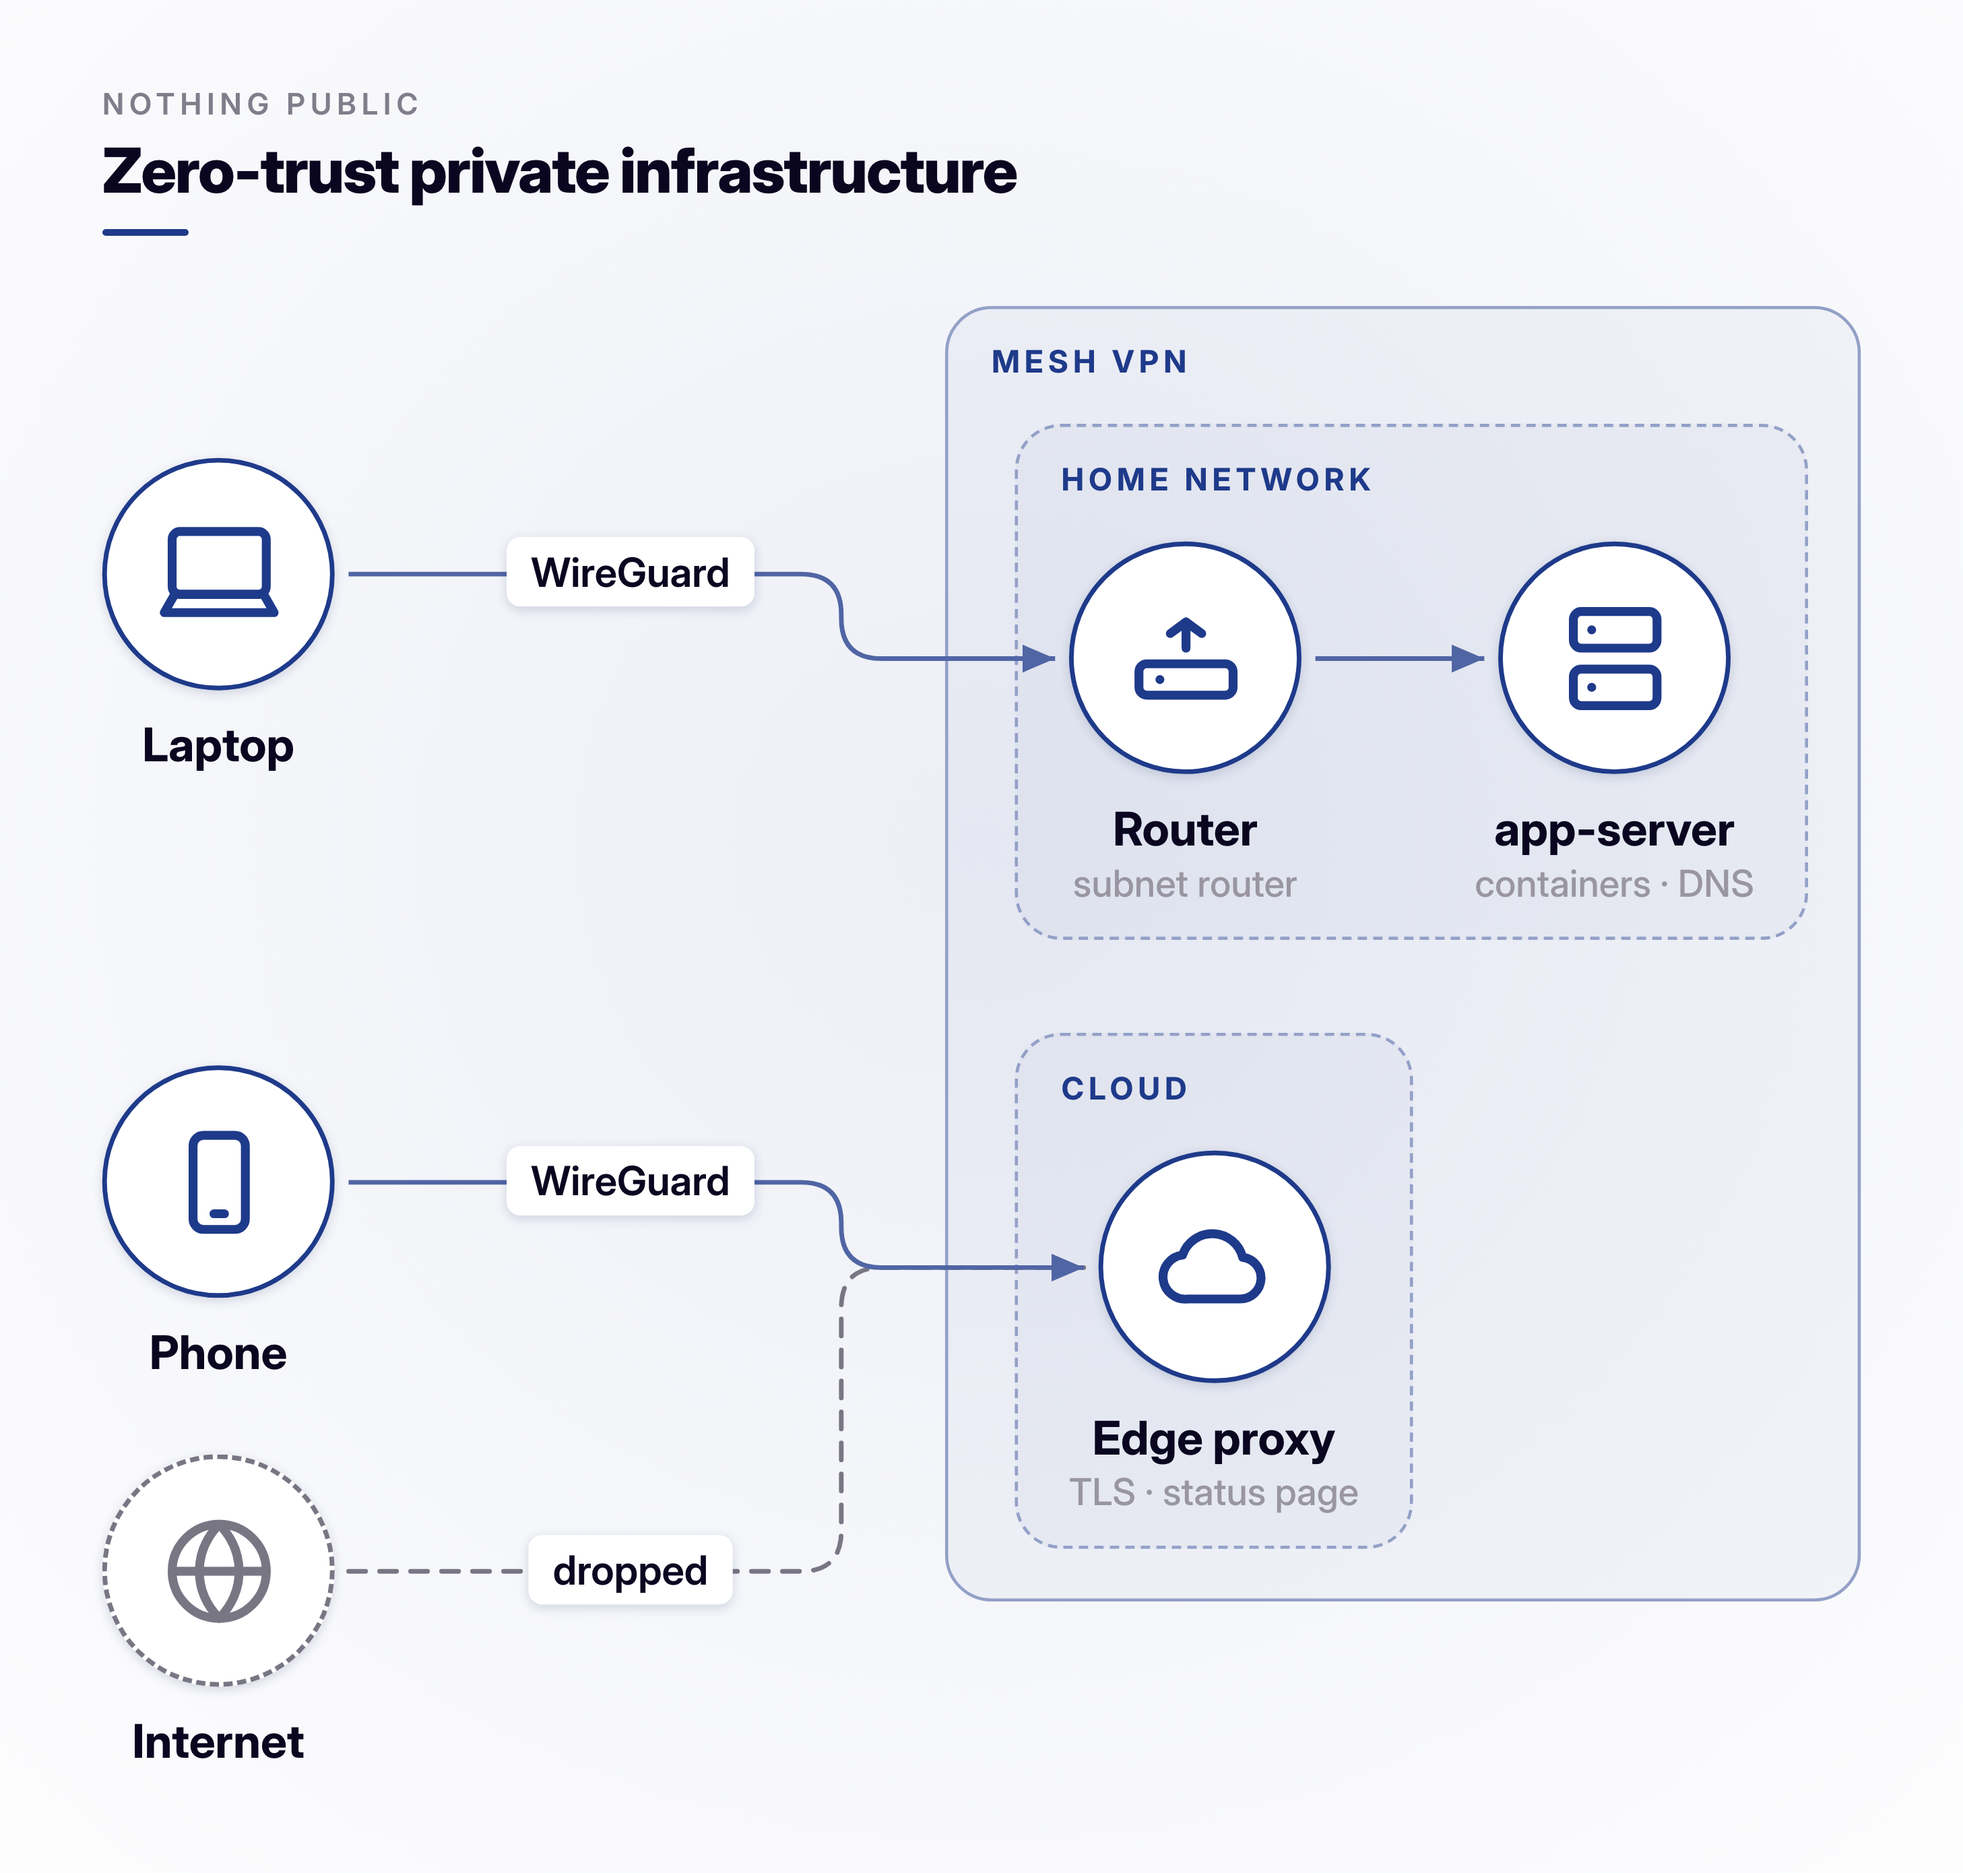
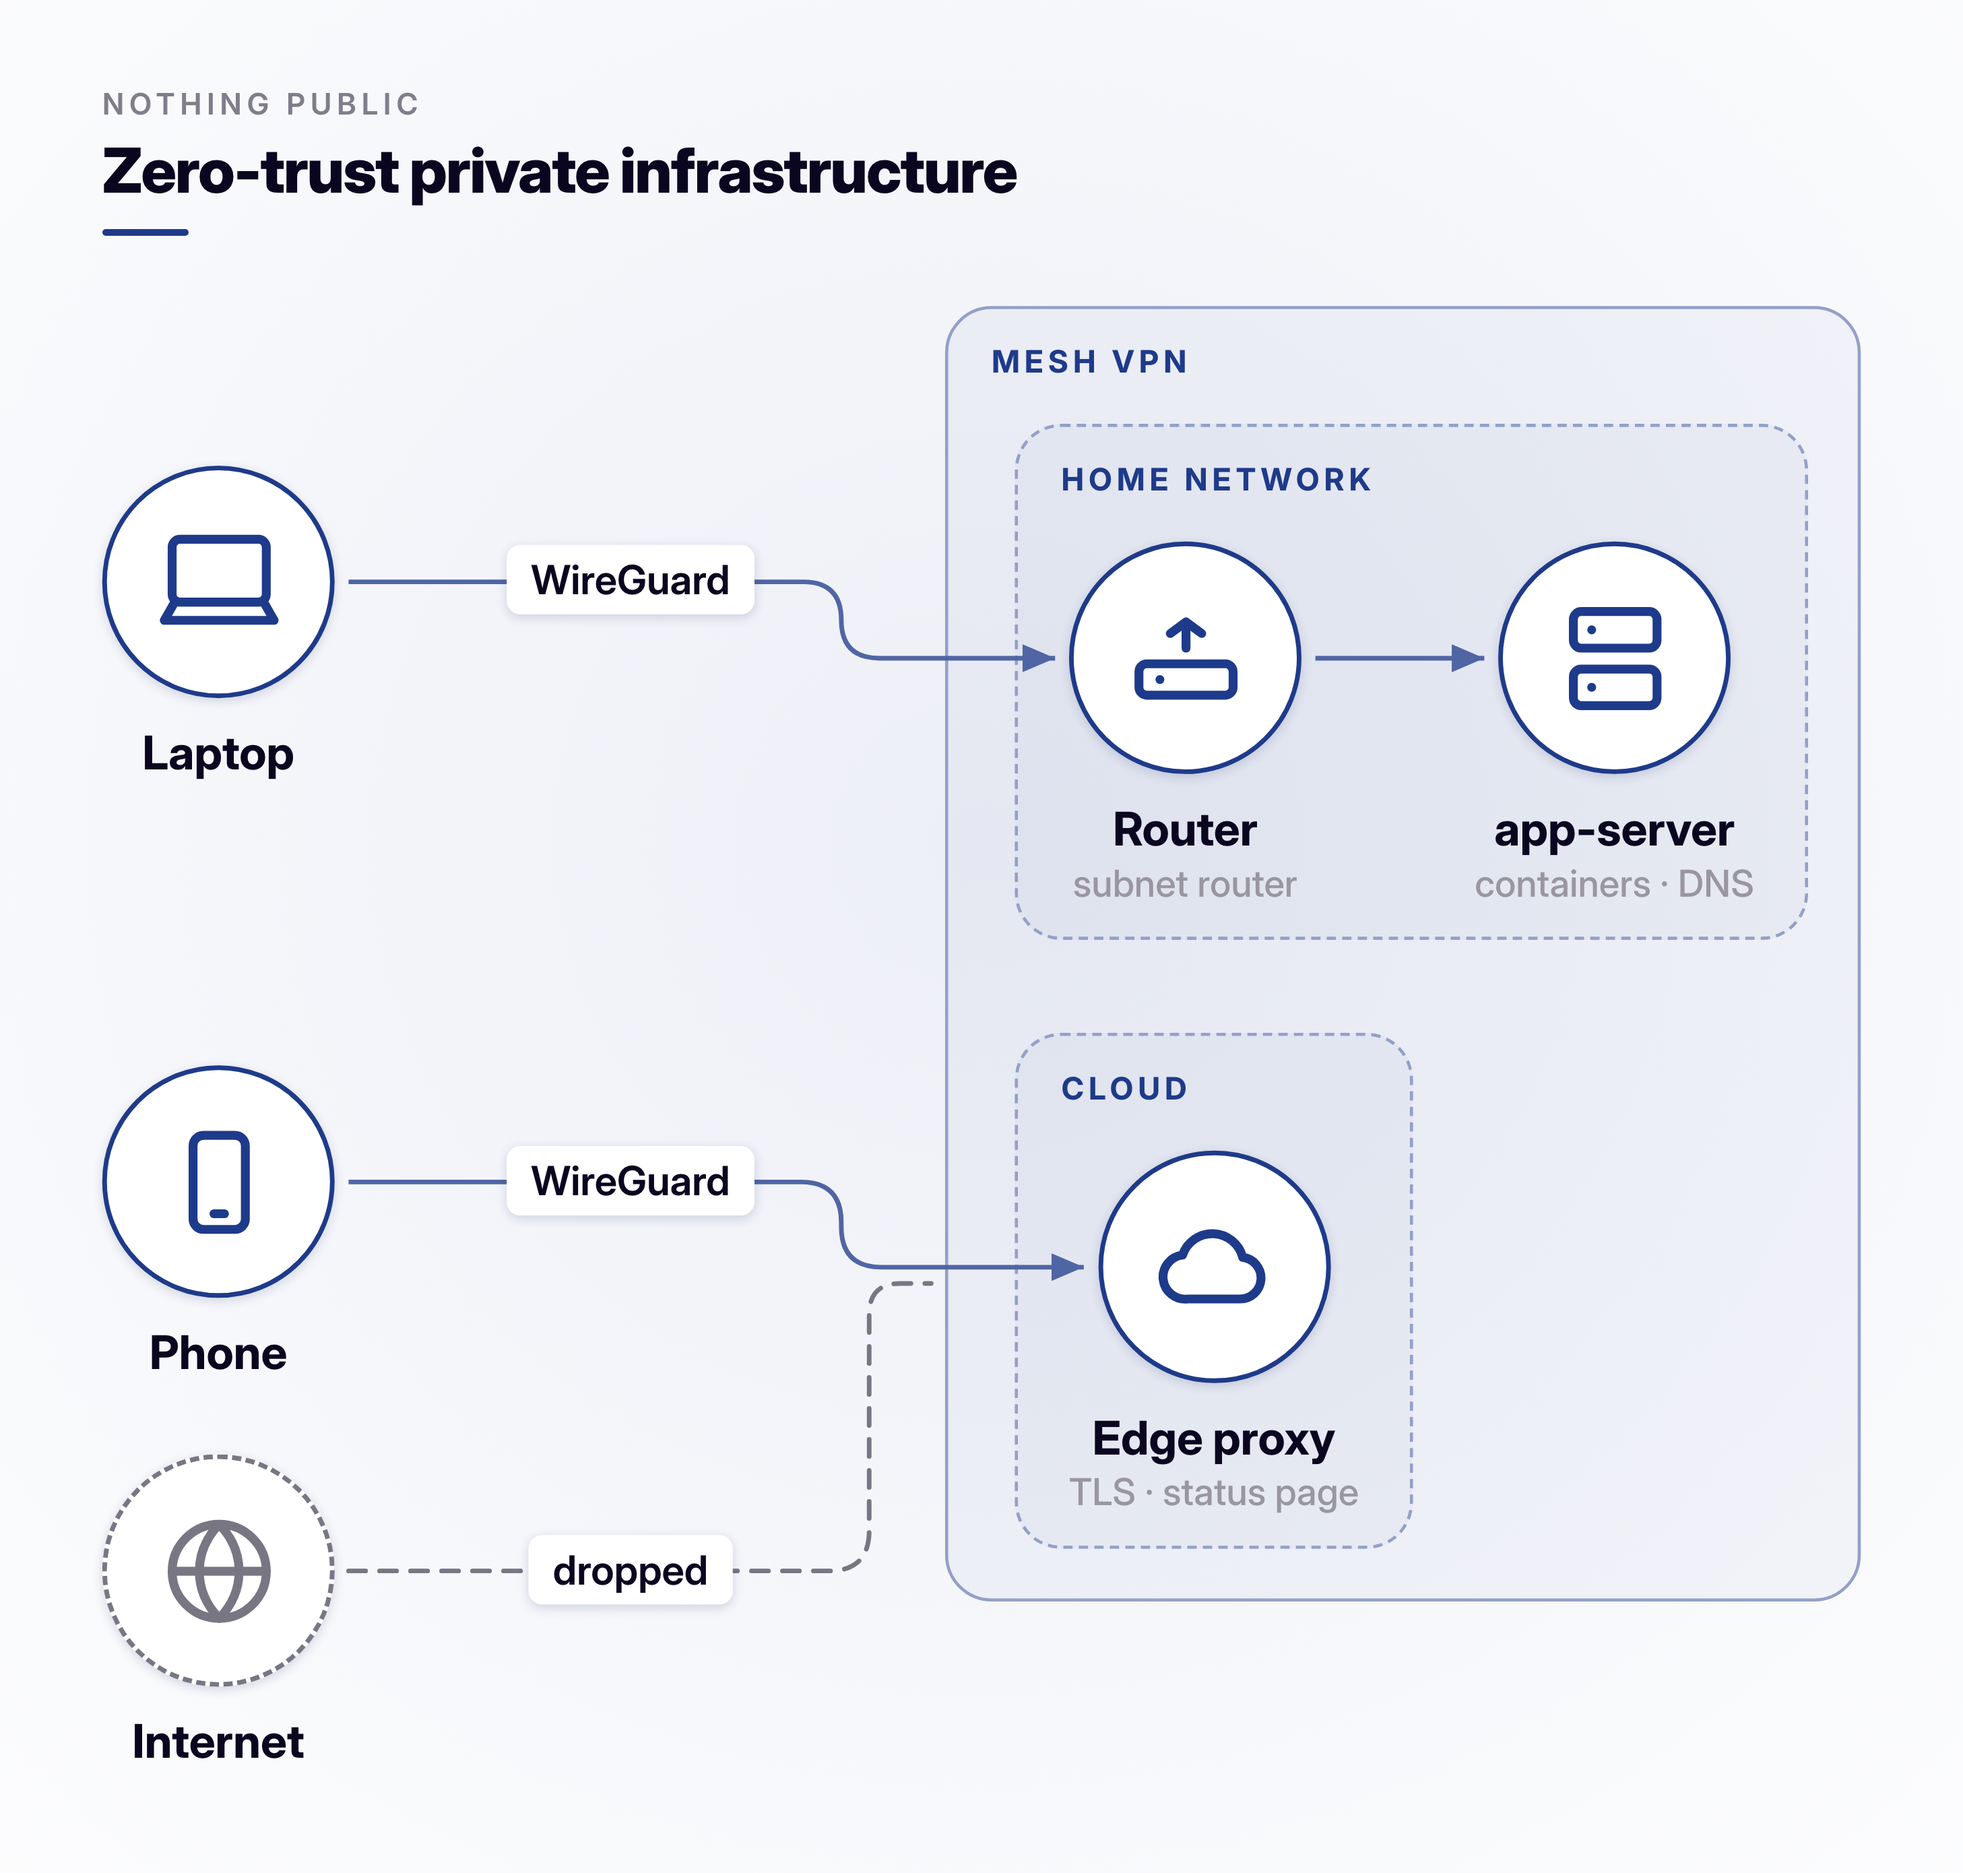
feat(figure): links can end at a group; group labels clear crossing lines
A link end may name a group (by label in .fig, by id in JSON); the line
stops at the group's border. Group labels slide along the top edge to a
spot no line crosses, or get a chip background. Runs of unrelated links
that nearly meet on one track are nudged apart.

Changed region(s): [[0.0625, 0.2475, 0.1874, 0.4331], [0.2498, 0.2784, 0.3747, 0.3403], [0.406, 0.3094, 0.4372, 0.3403]]

diff --git a/README.md b/README.md
@@ -456,6 +456,10 @@ app-server > Identity provider, Container UI: inject
 - **Groups**: `Label [dashed] { ... }`, nested as deep as needed. Declaring a node inside a
   group (its name on its own line, or with `[props]`) puts it there; a name first mentioned in a
   link inside a group joins it unless it is declared elsewhere. A node sits in one group.
+- **Links to groups**: use a group's label as a link end (`Mac <> Servers: user cert`) and the
+  line stops at the group's border, so one link and one label stand for every member. The group
+  can be declared above or below the link. Two groups with the same label, a node and a group with
+  the same name, or a link between a group and something inside it are errors.
 - **Directives**: `title`, `subtitle`, `layout`, `direction` (`right` default, `down`, `left`,
   `up`), `routing` (`orthogonal` default, `straight`, `curved`), `theme`, `size` (`cover` or
   `1600x900`), `textScale`, `nodeScale`, `spread`. An unknown directive is an error with a
@@ -470,7 +474,8 @@ dark pipeline of box nodes).
 ### Warnings and `--strict`
 
 After layout the engine checks its own work and prints a `warn` line for anything a reviewer
-would catch by eye: labels that overlap each other, a node, or a link; a group that covers a node
+would catch by eye: labels that overlap each other, a node, or a link (a group's label first slides
+along its top edge to clear any line); a group that covers a node
 it does not contain; an empty group or a self-link in a JSON spec (neither is drawn); text scaled
 below 70% to fit the frame. `--strict` turns any warning into a failure and writes nothing, for
 CI or for an agent that cannot look at the PNG.
@@ -515,7 +520,7 @@ directly. Every key is validated: an unknown key or value fails with its path an
 
 | Link key | Notes |
 |---|---|
-| `from`, `to` | node ids (checked, with suggestions) |
+| `from`, `to` | node or group ids (checked, with suggestions); a group end stops at its border |
 | `label` | a chip on the line |
 | `fromLabel`, `toLabel` | small text past each arrowhead (an IP octet) |
 | `dir` | `to`, `from`, `both` (default), `none` |
